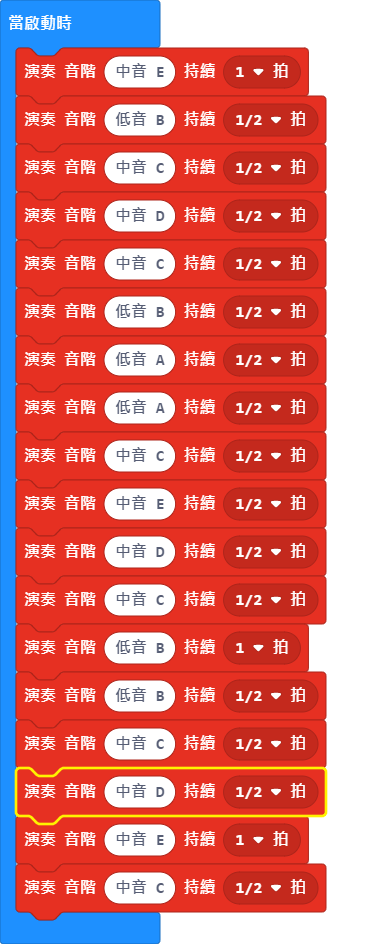
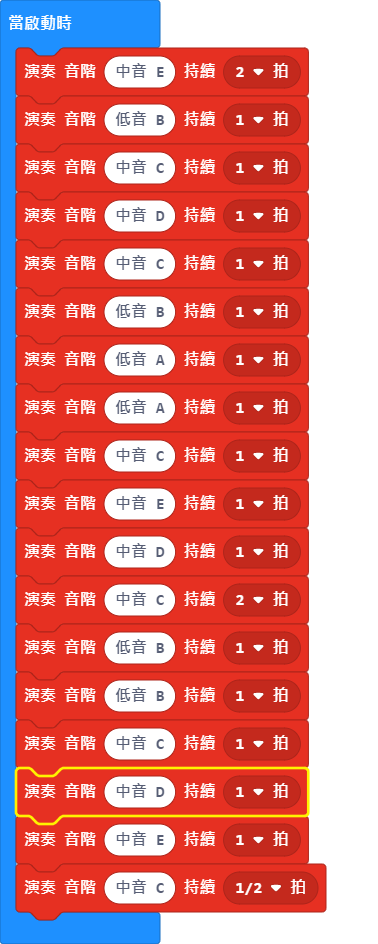
更新 pxt.json, main.blocks, main.ts

diff --git a/main.ts b/main.ts
@@ -1,18 +1,18 @@
-music.playTone(330, music.beat(BeatFraction.Whole))
-music.playTone(247, music.beat(BeatFraction.Half))
-music.playTone(262, music.beat(BeatFraction.Half))
-music.playTone(294, music.beat(BeatFraction.Half))
-music.playTone(262, music.beat(BeatFraction.Half))
-music.playTone(247, music.beat(BeatFraction.Half))
-music.playTone(220, music.beat(BeatFraction.Half))
-music.playTone(220, music.beat(BeatFraction.Half))
-music.playTone(262, music.beat(BeatFraction.Half))
-music.playTone(330, music.beat(BeatFraction.Half))
-music.playTone(294, music.beat(BeatFraction.Half))
-music.playTone(262, music.beat(BeatFraction.Half))
+music.playTone(330, music.beat(BeatFraction.Double))
 music.playTone(247, music.beat(BeatFraction.Whole))
-music.playTone(247, music.beat(BeatFraction.Half))
-music.playTone(262, music.beat(BeatFraction.Half))
-music.playTone(294, music.beat(BeatFraction.Half))
+music.playTone(262, music.beat(BeatFraction.Whole))
+music.playTone(294, music.beat(BeatFraction.Whole))
+music.playTone(262, music.beat(BeatFraction.Whole))
+music.playTone(247, music.beat(BeatFraction.Whole))
+music.playTone(220, music.beat(BeatFraction.Whole))
+music.playTone(220, music.beat(BeatFraction.Whole))
+music.playTone(262, music.beat(BeatFraction.Whole))
+music.playTone(330, music.beat(BeatFraction.Whole))
+music.playTone(294, music.beat(BeatFraction.Whole))
+music.playTone(262, music.beat(BeatFraction.Double))
+music.playTone(247, music.beat(BeatFraction.Whole))
+music.playTone(247, music.beat(BeatFraction.Whole))
+music.playTone(262, music.beat(BeatFraction.Whole))
+music.playTone(294, music.beat(BeatFraction.Whole))
 music.playTone(330, music.beat(BeatFraction.Whole))
 music.playTone(262, music.beat(BeatFraction.Half))
